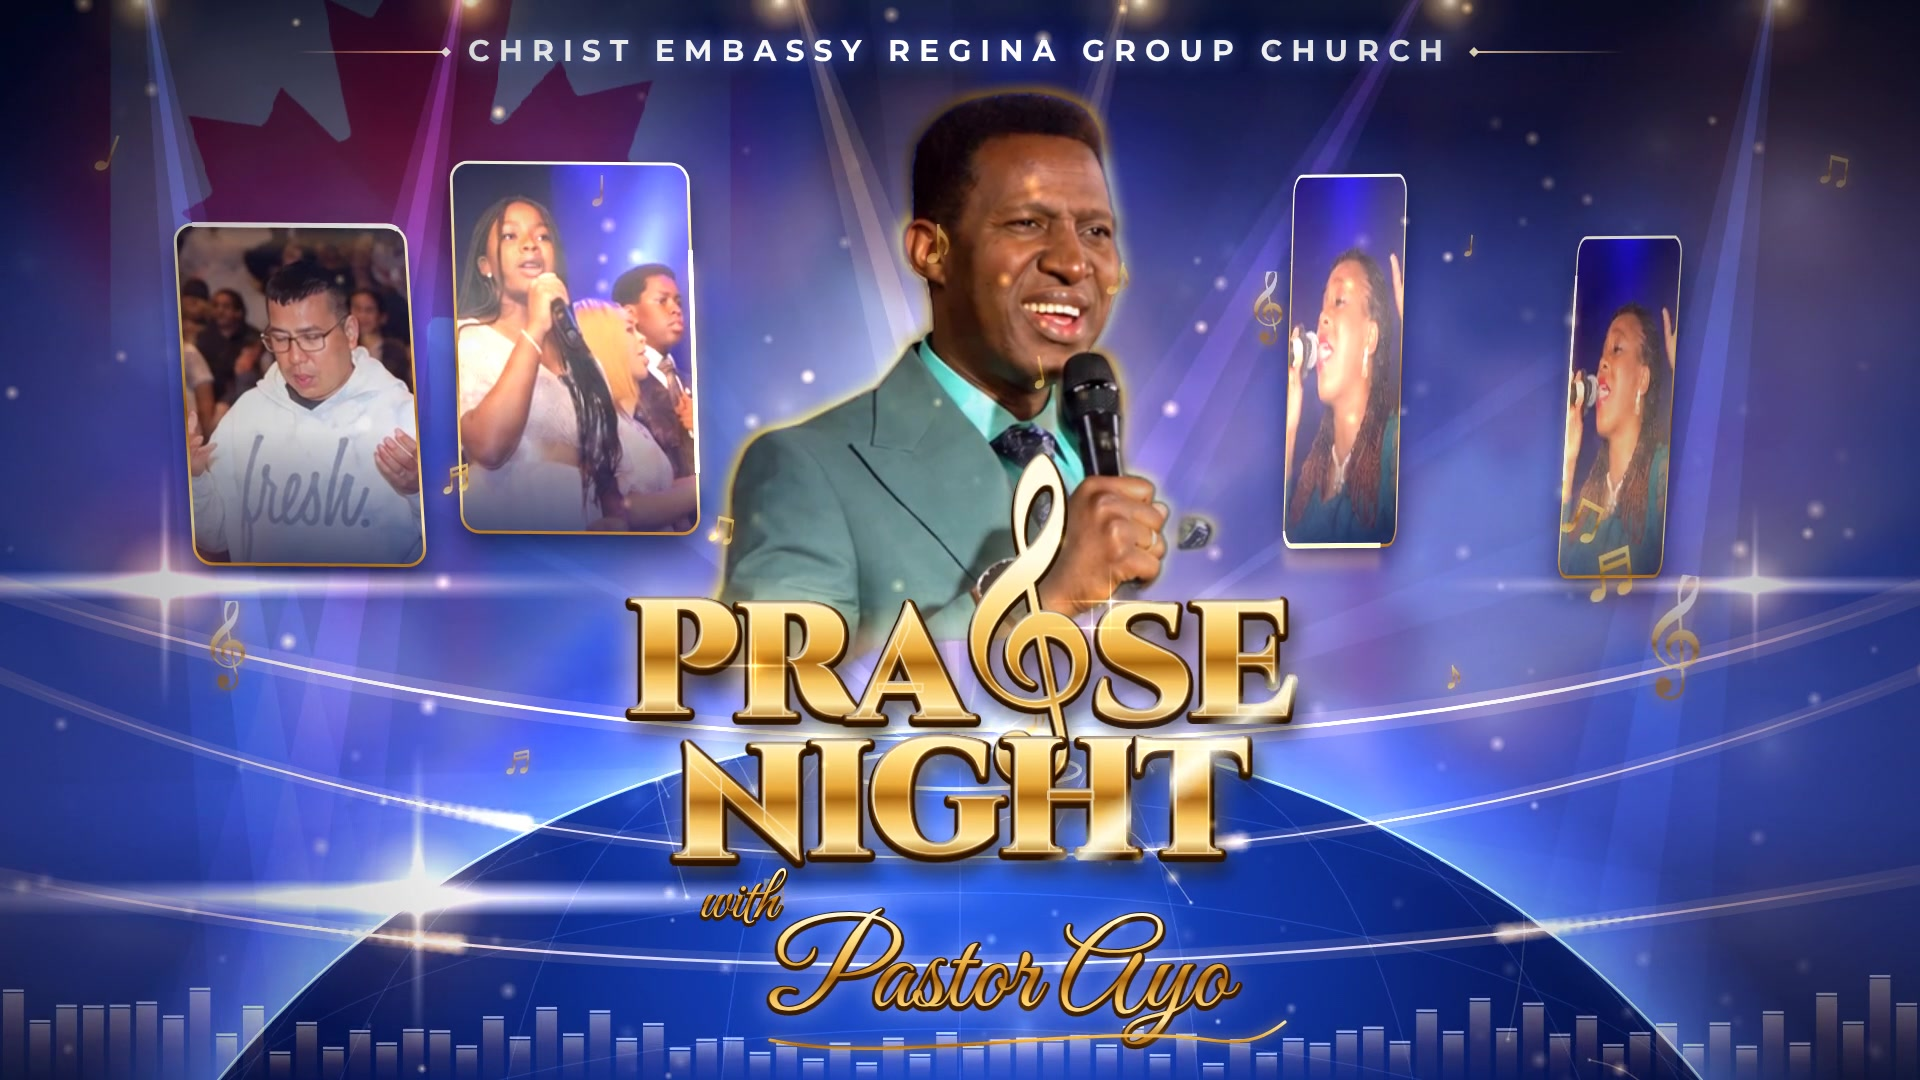
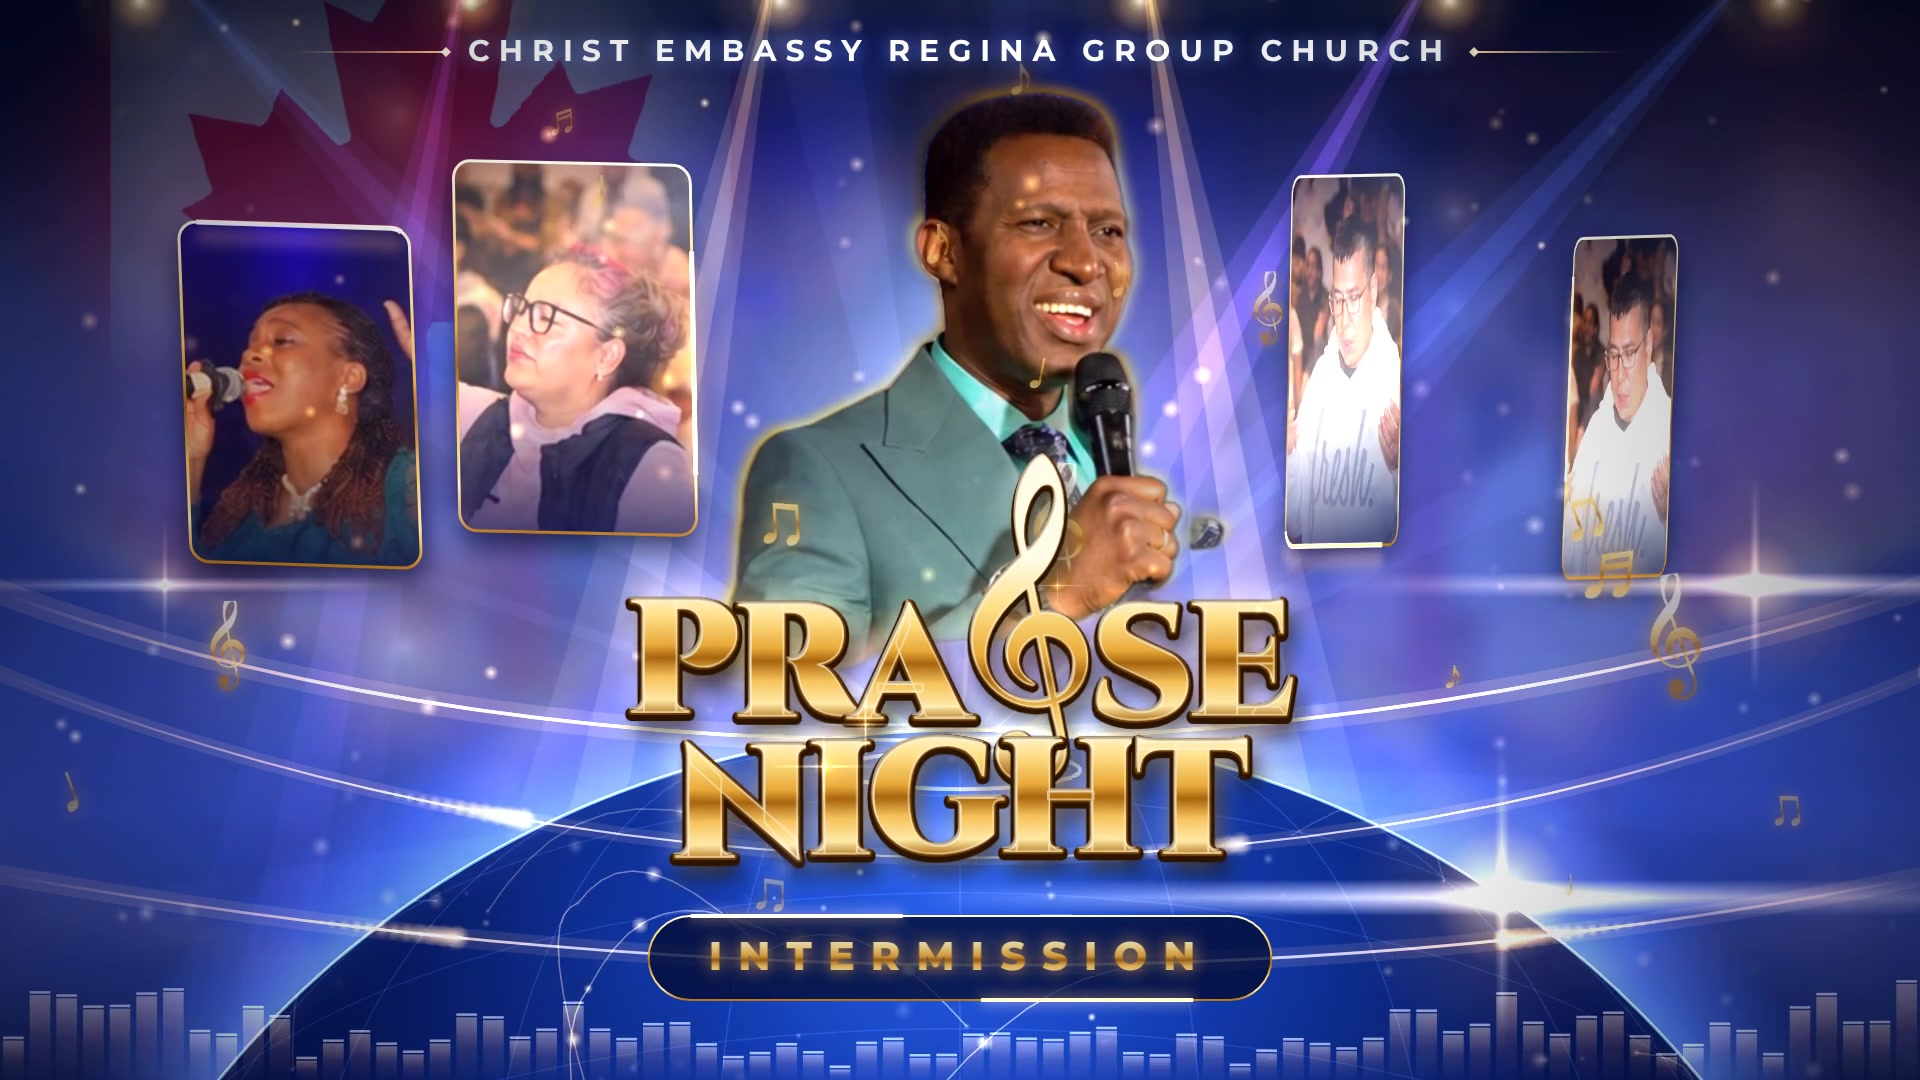
Flip photo cards together so no two cards show the same photo
Claude-Session: https://claude.ai/code/session_0178NqhFLJCJDMERFX4VxkT9

diff --git a/praise-night-motion/v2/scene.html b/praise-night-motion/v2/scene.html
@@ -327,7 +327,7 @@ const SLOTS = [
 function drawCards(t) {
   const step = L / 4, flipDur = 0.9;
   SLOTS.forEach((S, s) => {
-    const tt = mod(t - s * 0.18, L), k = Math.floor(tt / step), within = tt - k * step;
+    const tt = mod(t, L), k = Math.floor(tt / step), within = tt - k * step;
     const fp = clamp((within - (step - flipDur)) / flipDur);
     const flipping = fp > 0 && fp < 1;
     const idx = (s + k + (fp >= 0.5 ? 1 : 0)) % 4;
